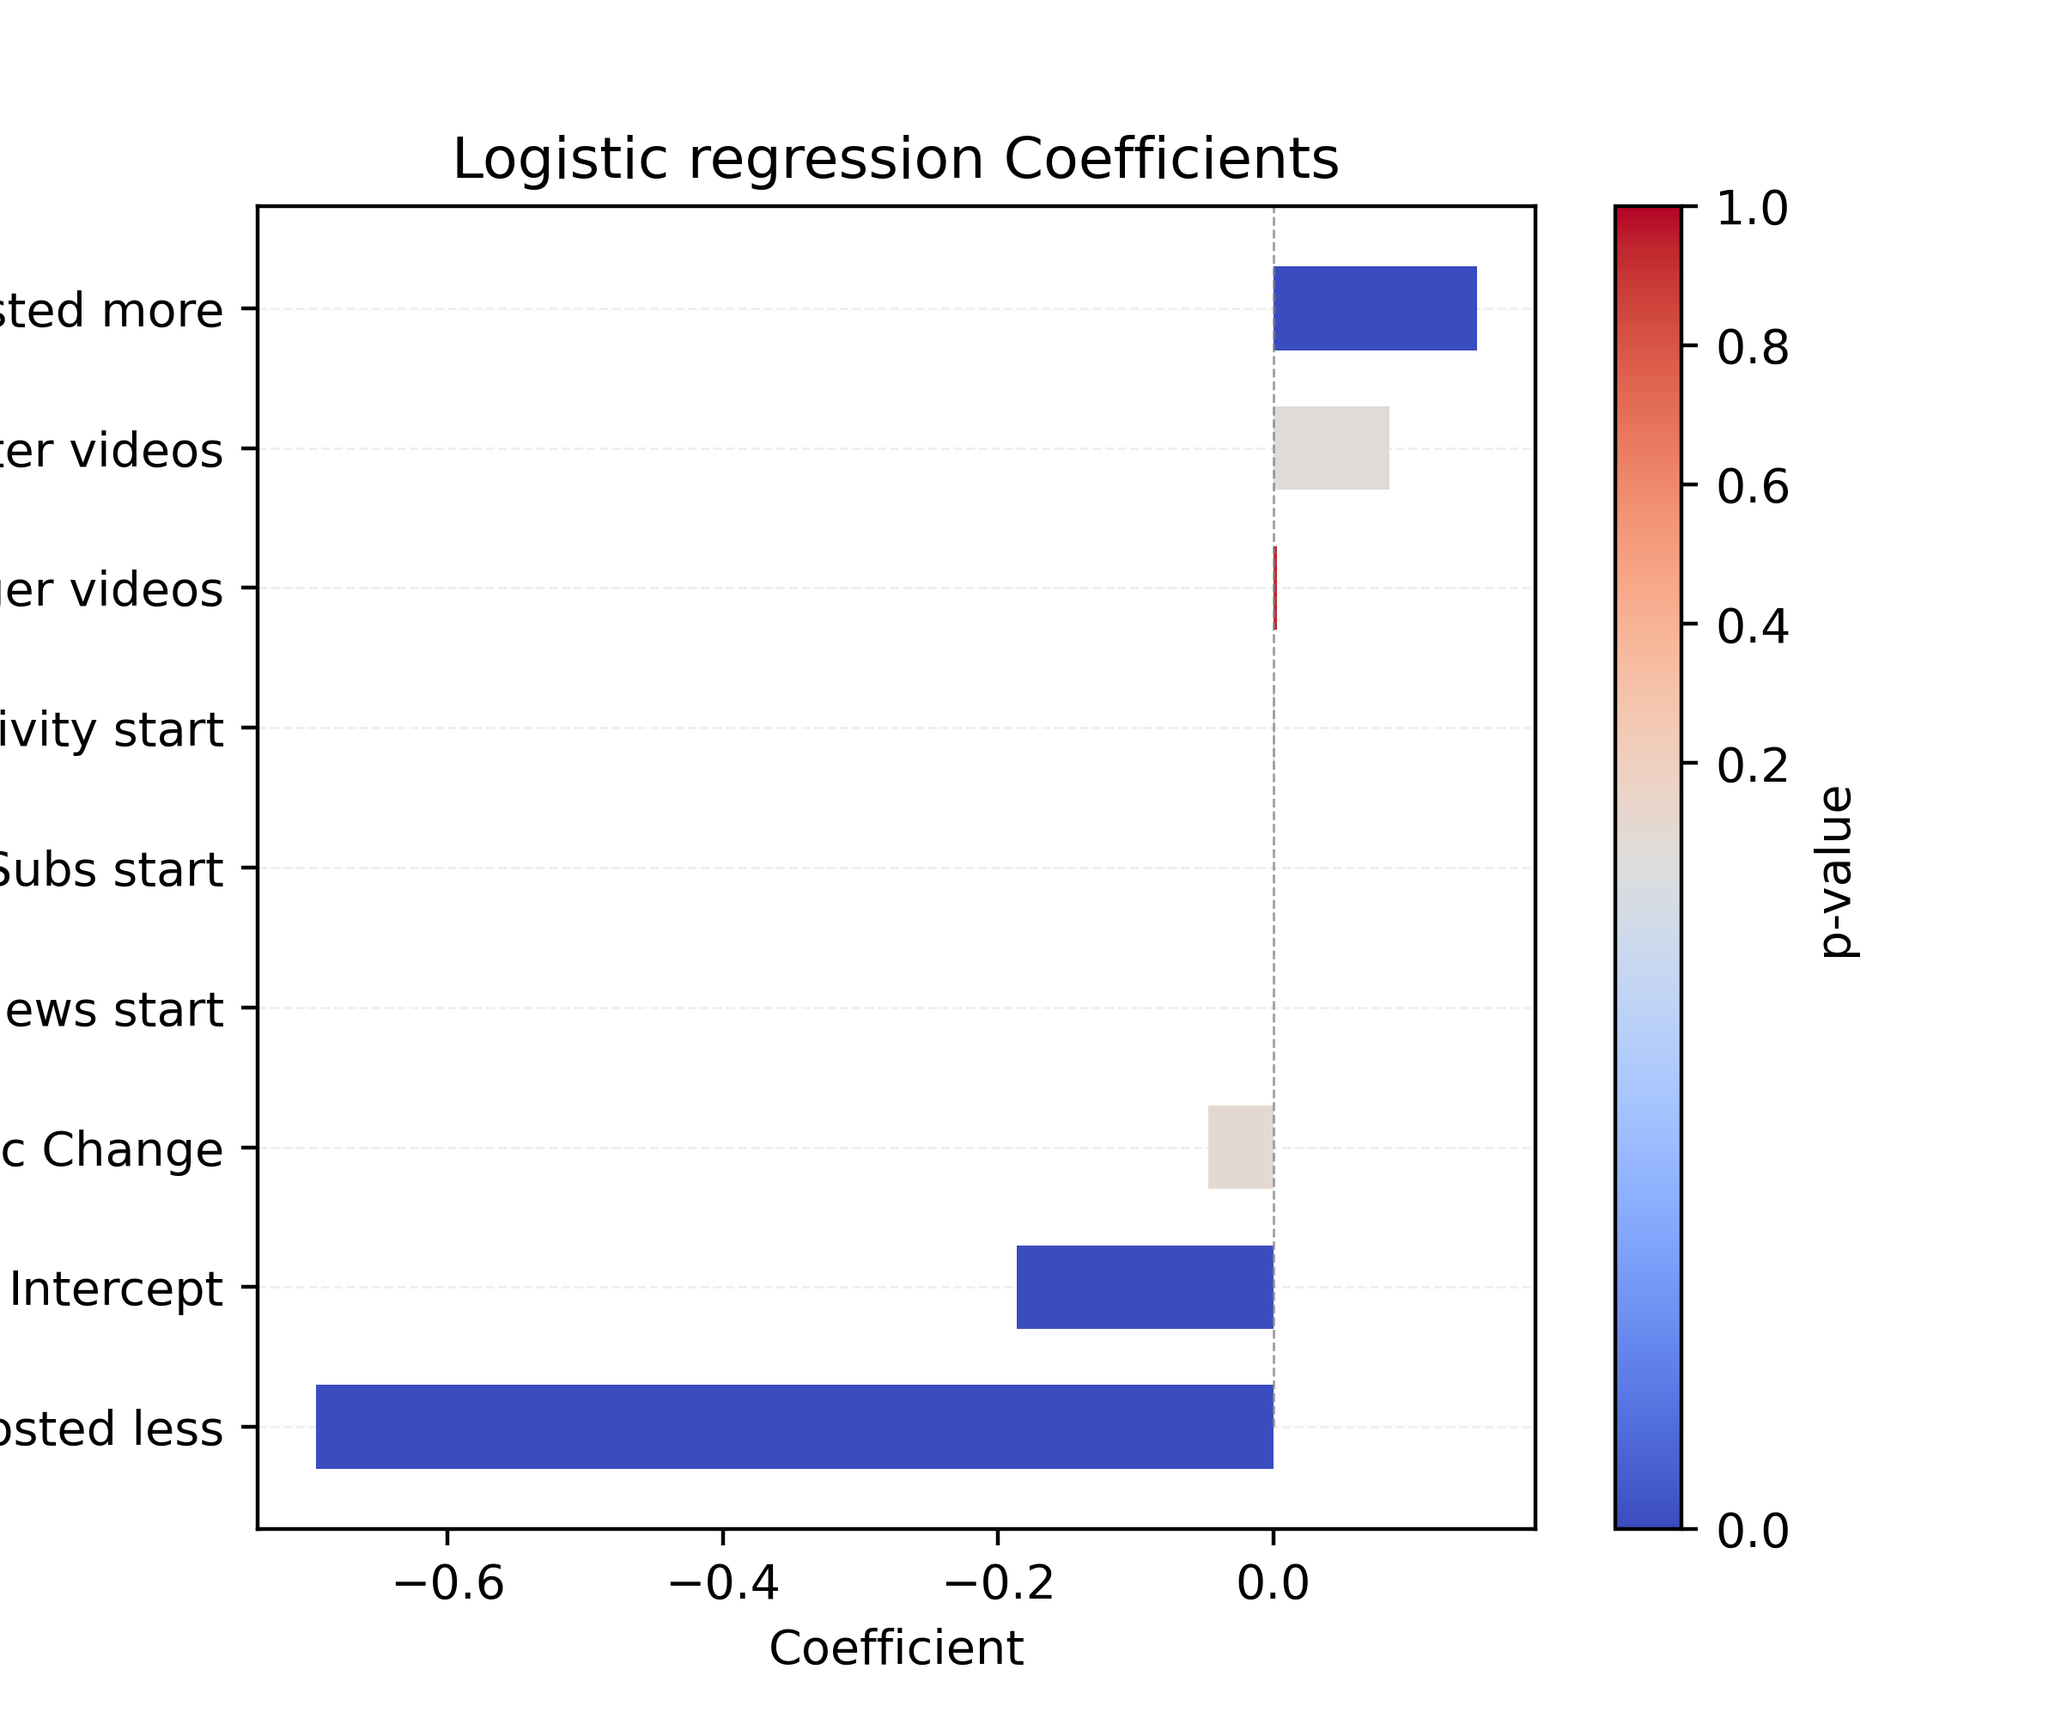
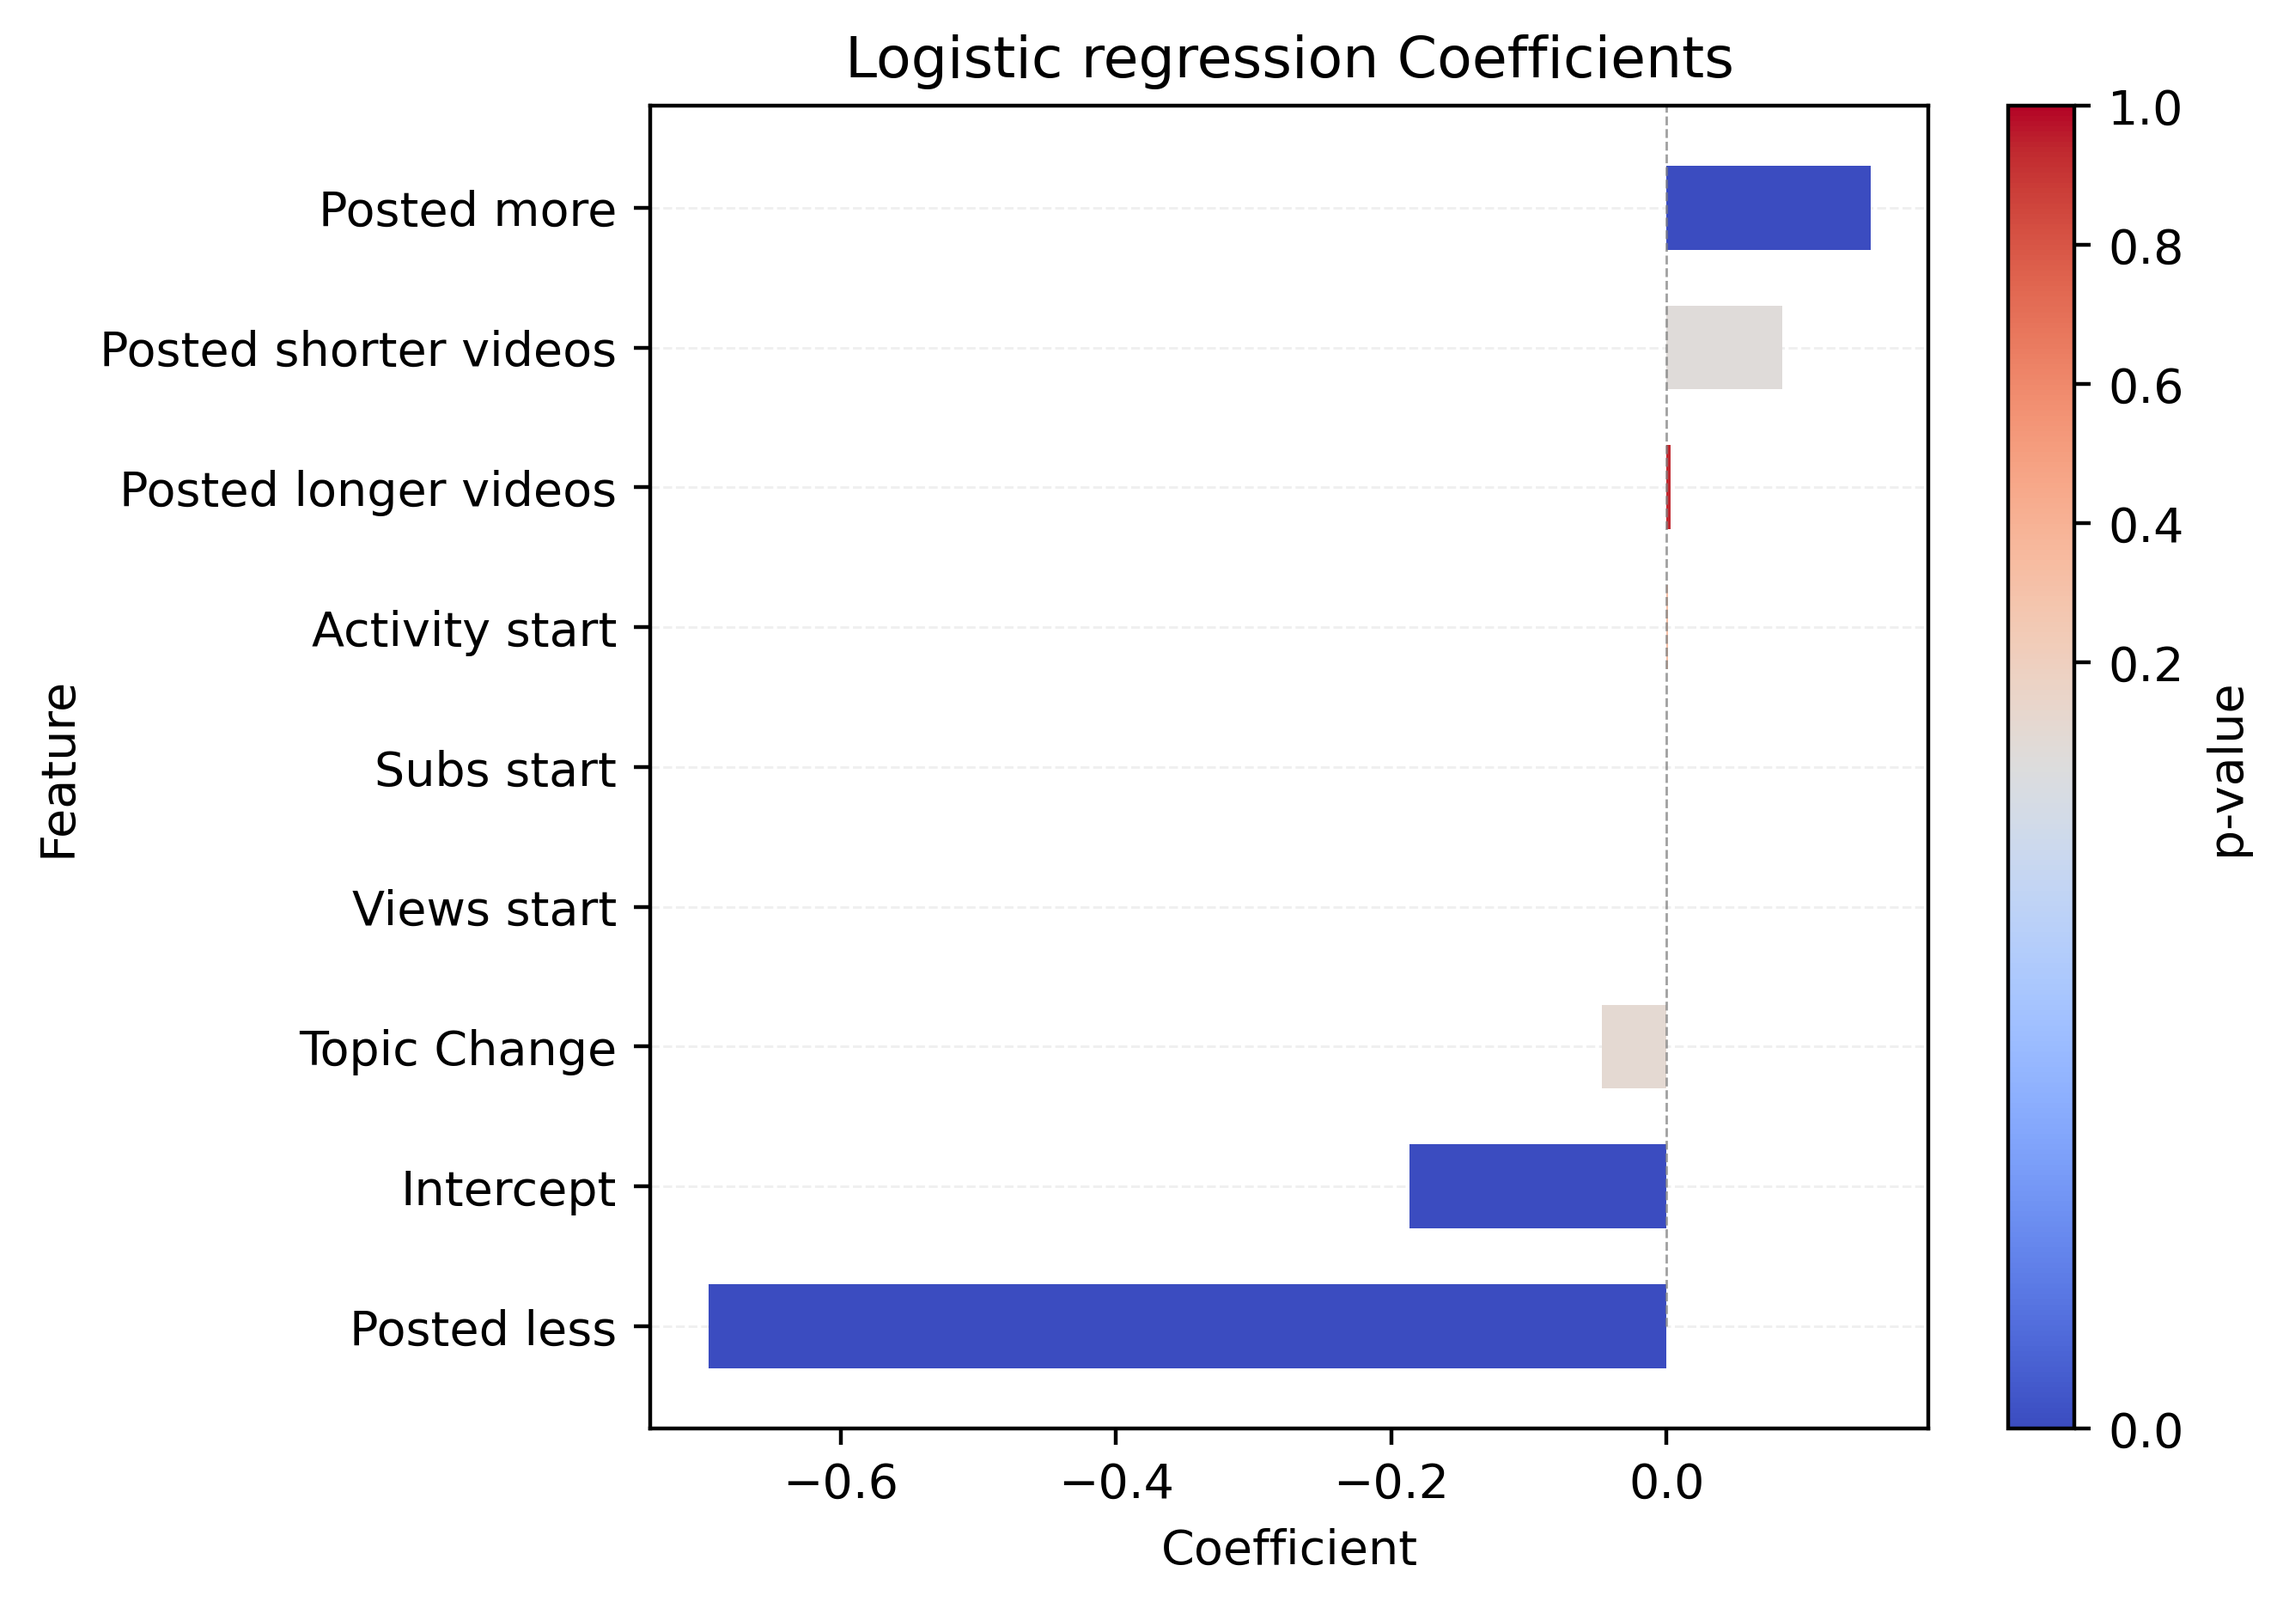
change plots

diff --git a/index.md b/index.md
@@ -166,7 +166,6 @@ Some changes occur more frequently than others, so we only show you the most sig
 
 First of all, here are the results of a logistic regression of **recovery** on the **reactions**. Basically, this means that we make use of all the data we have to compute the average impact of each reaction on the recovery.
 
-TODO generate it again without clipping the edges
 <img src="/assets/img/LogistSummary.png" alt="Logistic regression summary showing coefficients and p-values" style="width: 60%; margin: auto; display: block;">
 
 While analysing and drawing conclusions from this simple regression would be quite naive, it highlights an essential fact :
